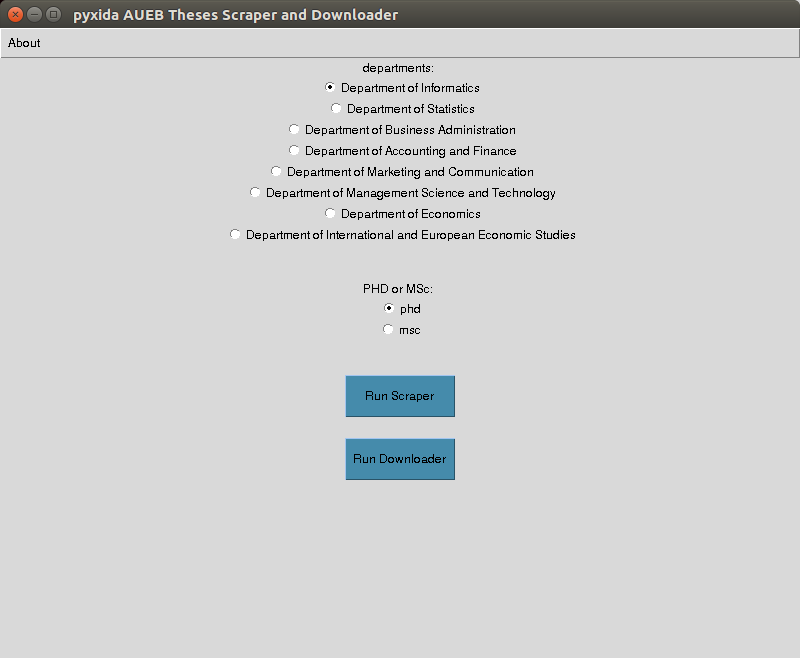
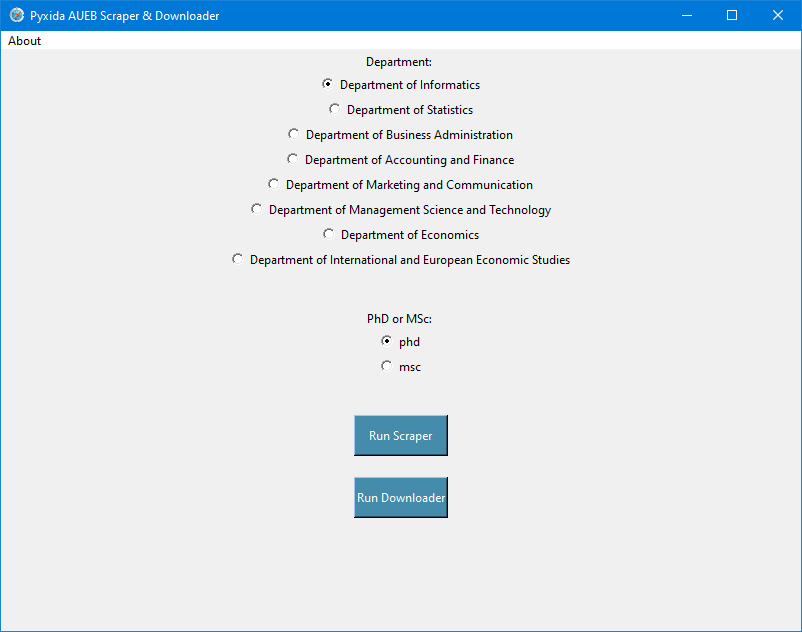
Code maintenance
- Update `pyxida_gui.py`.
- Update `pyxida_downloader.py`.
- Update `screenshots/1.png`.

Changed region(s): [[0.0, 0.0, 1.0, 0.8418], [0.0, 0.9921, 1.0, 1.0]]

diff --git a/pyxida_downloader.py b/pyxida_downloader.py
@@ -12,7 +12,8 @@ txt_path = 'txt\\'
 # department = 5  # Τμήμα Επικοινωνίας και Μάρκετινγκ / Department of Marketing and Communication
 # department = 6  # Τμήμα Διοικητικής Επιστήμης και Τεχνολογίας / Department of Management Science and Technology
 # department = 7  # Τμήμα Οικονομικής Επιστήμης / Department of Economics
-# department = 8  # Τμήμα Διεθνών και Ευρωπαϊκών Οικονομικών Σπουδών / Department of International and European Economic Studies
+# department = 8  # Τμήμα Διεθνών και Ευρωπαϊκών Οικονομικών Σπουδών /
+#                   Department of International and European Economic Studies
 
 # PhDOrMSc = 'phd'
 # PhDOrMSc = 'msc'

diff --git a/pyxida_gui.py b/pyxida_gui.py
@@ -39,7 +39,8 @@ if __name__ == '__main__':
     img_path = 'img\\'
 
     # create window and set title
-    root = tk.Tk(className='Pyxida AUEB Scraper')
+    root = tk.Tk()
+    root.title('Pyxida AUEB Scraper & Downloader')
 
     # change window size
     root.geometry("800x600")
@@ -69,7 +70,7 @@ if __name__ == '__main__':
     phd_or_msc_var = tk.StringVar(phd_or_msc_frame, 'phd')
 
     # 1. departments_frame widgets #
-    departments_label = tk.Label(departments_frame, text='departments: ')
+    departments_label = tk.Label(departments_frame, text='Department: ')
     departments_label.pack()
     for i in range(len(departments)):
         tk.Radiobutton(
